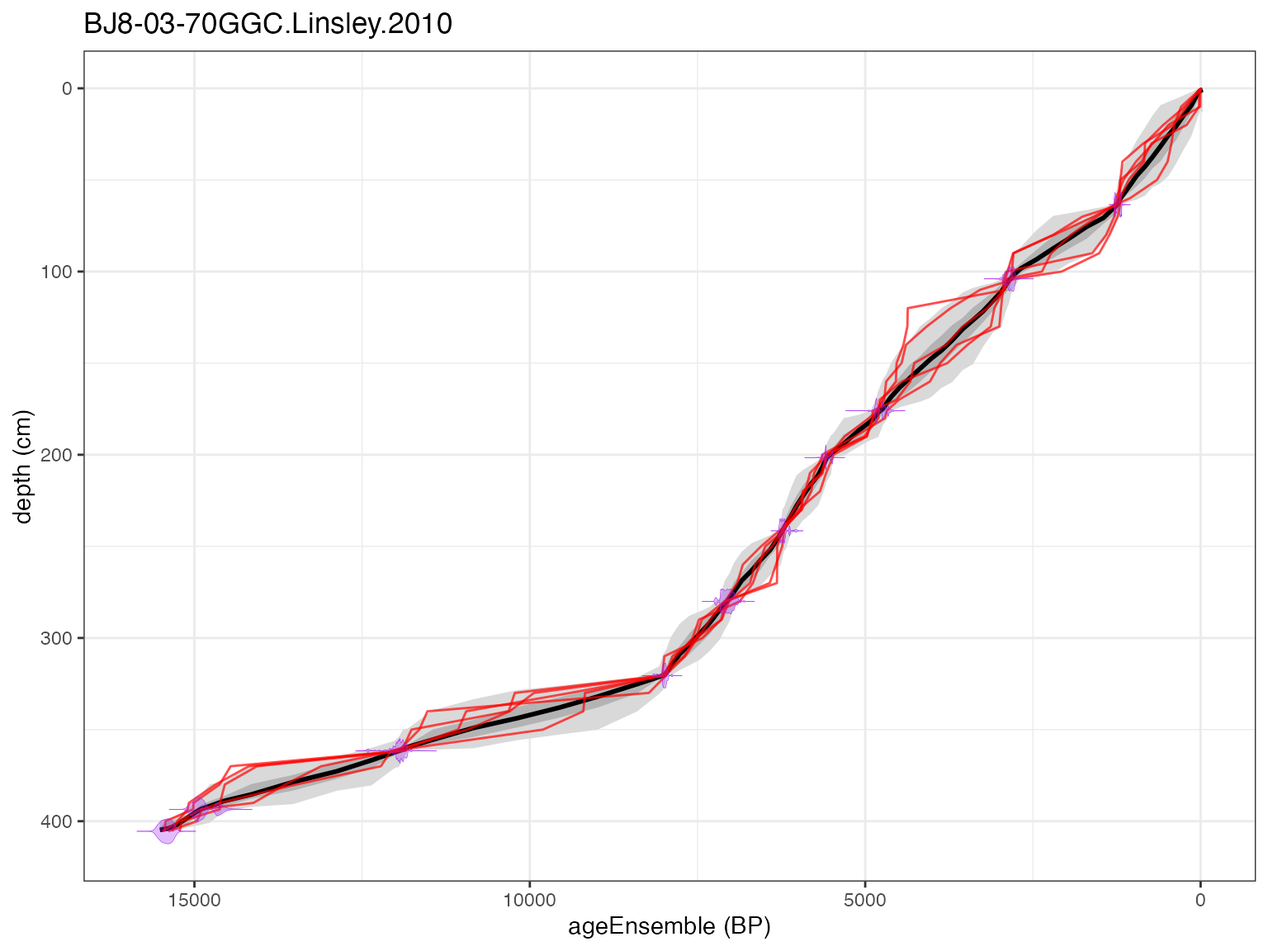
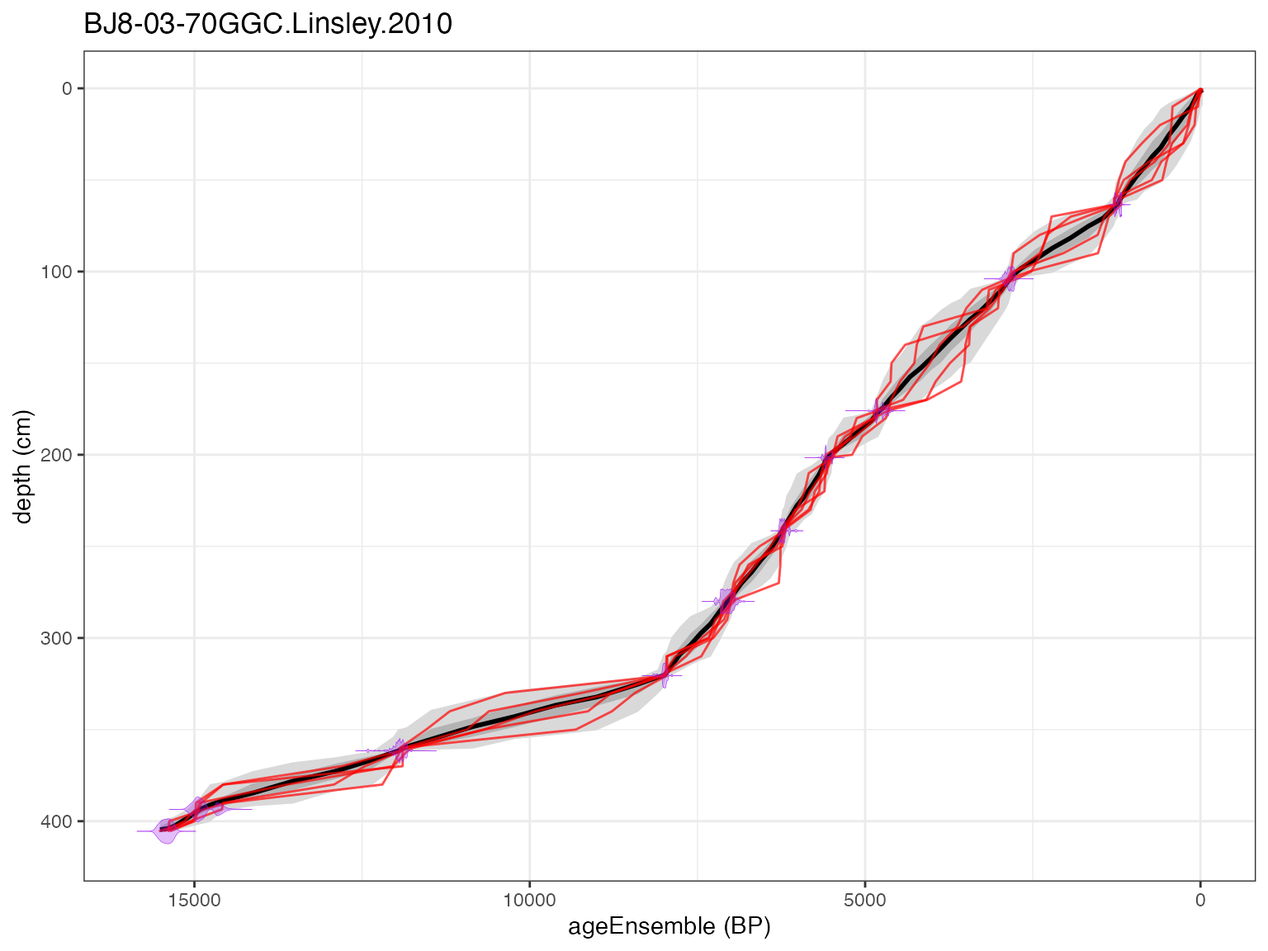
Deploying to gh-pages from @ nickmckay/GeoChronR@5e35a6a2241da9055941692a5543424f4d29bb61 🚀

Changed region(s): [[0.125, 0.4375, 0.6875, 0.875], [0.6875, 0.0938, 0.9688, 0.4375]]

diff --git a/articles/oxCal.html b/articles/oxCal.html
@@ -156,7 +156,7 @@ will tell you.</p>
 <p>OK, let’s get a LiPD file from the LinkedEarth Wiki:</p>
 <div class="sourceCode" id="cb3"><pre class="downlit sourceCode r">
 <code class="sourceCode R"><span><span class="va">L</span> <span class="op">&lt;-</span> <span class="fu"><a href="https://rdrr.io/pkg/lipdR/man/readLipd.html" class="external-link">readLipd</a></span><span class="op">(</span><span class="st">"https://lipdverse.org/geoChronR-examples/BJ8-03-70GGC.Linsley.2010.lpd"</span><span class="op">)</span></span>
-<span><span class="co">#&gt; [1] "Loading 1 datasets from /var/folders/py/lcjn3y352g1106vf1rqk521r0000gn/T//RtmpeJgYIs/BJ8-03-70GGC.Linsley.2010.lpd..."</span></span>
+<span><span class="co">#&gt; [1] "Loading 1 datasets from /var/folders/py/lcjn3y352g1106vf1rqk521r0000gn/T//RtmpIobB3D/BJ8-03-70GGC.Linsley.2010.lpd..."</span></span>
 <span><span class="co">#&gt; [1] "reading: BJ8-03-70GGC.Linsley.2010.lpd"</span></span></code></pre></div>
 <p>Now we can run it through oxcal. First, we specify our oxcal path,
 then use the <code>runOxcal</code> function. Like the other
@@ -235,7 +235,7 @@ multiple hours).</p>
 <span><span class="co"><span style="color: #00BB00; font-weight: bold;">#&gt;  Find later with getLastVarString()</span></span></span>
 <span><span class="co"><span style="color: #00BB00; font-weight: bold;">#&gt; </span><span style="color: #00BB00;">lab.id.var = 'id', age.14c.var = 'age14c', age.14c.uncertainty.var = 'age14cuncertainty', age.var = 'calendarage', age.uncertainty.var = 'calendarageuncertainty', depth.var = 'depth', reservoir.age.14c.var = NULL, reservoir.age.14c.uncertainty.var = NULL, rejected.ages.var = NULL, </span></span></span>
 <span><span class="co"><span style="color: #00BB00;">#&gt; </span><span style="color: #0000BB;">Oxcal is now running, depending on your settings and your computer, this may take a few minutes to several hours. The model is complete when a table of model diagnostics appears.</span></span></span>
-<span><span class="co"><span style="color: #0000BB;">#&gt; </span>[1] "OxCal v4.4.4 Bronk Ramsey (2021); r:5\nAtmospheric data from Reimer et al (2020)\n405.5\n400\n393.5\n390\n380\n370\n361.5\n360\n350\n340\n330\n320.5\n320\n310\n300\n290\n280\n270\n260\n250\n241.5\n240\n230\n220\n210\n201.5\n200\n190\n180\n176\n170\n160\n150\n140\n130\n120\n110\n104\n100\n90\n80\n70\n63.5\n60\n50\n40\n30\n20\n10\n0\nWarning! Duplicate names - Atmospheric\nWarning! Duplicate names - Atmospheric\nWarning! Duplicate names - Atmospheric\nBoundary()\nAtmospheric Curve(IntCal20.14c)\nAtmospheric data from Reimer et al (2020)\nOS-45436 R_Date(12900,45)\n  68.3% probability\n    13563BC (68.3%) 13372BC\n  95.4% probability\n    13644BC (95.4%) 13310BC\nD \nAtmospheric Curve(IntCal20.14c)\nAtmospheric data from Reimer et al (2020)\nOS-65581 R_Date(12550,50)\n  68.3% probability\n    13106BC (59.4%) 12886BC\n    12728BC ( 8.9%) 12677BC\n  95.4% probability\n    13180BC (71.0%) 12847BC\n    12774BC (24.5%) 12560BC\nD \nD \nD \nAtmospheric Curve(IntCal20.14c)\nAtmospheric data from Reimer et al (2020)\nOS-60748 R_Date(10250,40)\n  68.3% probability\n    10049BC (58.3%) 9922BC\n    9912BC ( 9.9%) 9884BC\n  95.4% probability\n    10480BC ( 2.0%) 10450BC\n    10217BC ( 0.4%) 10206BC\n    10192BC ( 0.6%) 10176BC\n    10154BC (91.3%) 9864BC\n    9832BC ( 1.0%) 9811BC\nD \nD \nD \nD \nAtmospheric Curve(IntCal20.14c)\nAtmospheric data from Reimer et al (2020)\nOS-60737 R_Date(7190,45)\n  68.3% probability\n    6076BC (68.3%) 6010BC\n  95.4% probability\n    6217BC (10.2%) 6139BC\n    6096BC (83.9%) 5982BC\n    5940BC ( 1.3%) 5928BC\nD \nD \nD \nD \nAtmospheric Curve(IntCal20.14c)\nAtmospheric data from Reimer et al (2020)\nOS-54154 R_Date(6160,60)\n  68.3% probability\n    5208BC (68.3%) 5040BC\n  95.4% probability\n    5298BC ( 4.5%) 5258BC\n    5221BC (91.0%) 4941BC\nD \nD \nD \nAtmospheric Curve(IntCal20.14c)\nAtmospheric data from Reimer et al (2020)\nOS-60750 R_Date(5410,35)\n  68.3% probability\n    4330BC (68.3%) 4249BC\n  95.4% probability\n    4346BC (85.2%) 4228BC\n    4196BC ( 7.7%) 4166BC\n    4094BC ( 2.5%) 4070BC\nD \nD \nD \nD \nAtmospheric Curve(IntCal20.14c)\nAtmospheric data from Reimer et al (2020)\nOS-60747 R_Date(4850,40)\n  68.3% probability\n    3700BC ( 8.2%) 3684BC\n    3655BC (37.1%) 3626BC\n    3562BC (23.0%) 3533BC\n  95.4% probability\n    3708BC (14.5%) 3670BC\n    3660BC (81.0%) 3527BC\nD \nD \nD \nAtmospheric Curve(IntCal20.14c)\nAtmospheric data from Reimer et al (2020)\nOS-54153 R_Date(4240,50)\n  68.3% probability\n    2910BC (35.2%) 2861BC\n    2805BC (26.1%) 2754BC\n    2720BC ( 7.0%) 2703BC\n  95.4% probability\n    3004BC ( 0.8%) 2992BC\n    2928BC (43.7%) 2831BC\n    2822BC (49.6%) 2662BC\n    2652BC ( 1.4%) 2632BC\nD \nD \nD \nD \nD \nD \nD \nAtmospheric Curve(IntCal20.14c)\nAtmospheric data from Reimer et al (2020)\nOS-54152 R_Date(2750,50)\n  68.3% probability\n    964BC ( 1.5%) 961BC\n    930BC (66.8%) 826BC\n  95.4% probability\n    1006BC (95.4%) 810BC\nD \nD \nD \nD \nAtmospheric Curve(IntCal20.14c)\nAtmospheric data from Reimer et al (2020)\nOS-45435 R_Date(1310,30)\n  68.3% probability\n    664AD (29.2%) 689AD\n    698AD ( 3.2%) 701AD\n    742AD (35.9%) 772AD\n  95.4% probability\n    656AD (95.4%) 774AD\nD \nD \nD \nD \nD \nD \nsurface C_Date(1950,25)\n  68.3% probability\n    1923AD (68.3%) 1976AD\n  95.4% probability\n    1900AD (95.4%) 2000AD\nBoundary()\nMCMC_Sample()\n( P_Sequence \nP_Sequence(0.1)\n) P_Sequence \nWarning! No outlier model specified - use Outlier_Model()\nWarning! No outlier model specified - use Outlier_Model()\nWarning! No outlier model specified - use Outlier_Model()\nWarning! No outlier model specified - use Outlier_Model()\nWarning! No outlier model specified - use Outlier_Model()\nWarning! No outlier model specified - use Outlier_Model()\nWarning! No outlier model specified - use Outlier_Model()\nWarning! No outlier model specified - use Outlier_Model()\nWarning! No outlier model specified - use Outlier_Model()\nWarning! No outlier model specified - use Outlier_Model()\nWarning! No outlier model specified - use Outlier_Model()\nPosterior \n( MCMC(30000)\nOverall agreement 101.1%\nDynamic agreement 101.3%\nPosterior \n  68.3% probability\n    13540BC (68.3%) 13351BC\n  95.4% probability\n    13640BC (95.4%) 13291BC\nOS-45436 Posterior \n  68.3% probability\n    13540BC (68.3%) 13351BC\n  95.4% probability\n    13640BC (95.4%) 13291BC\n Agreement  99.8%\nD Posterior \n  68.3% probability\n    13452BC (68.3%) 13040BC\n  95.4% probability\n    13592BC (92.6%) 12854BC\n    12807BC ( 2.9%) 12714BC\nOS-65581 Posterior \n  68.3% probability\n    13114BC (63.0%) 12886BC\n    12723BC ( 5.2%) 12690BC\n  95.4% probability\n    13186BC (73.4%) 12844BC\n    12776BC (22.0%) 12565BC\n Agreement 101.8%\nD Posterior \n  68.3% probability\n    13100BC (68.3%) 12496BC\n  95.4% probability\n    13186BC (95.4%) 11528BC\nD Posterior \n  68.3% probability\n    12633BC (68.3%) 11082BC\n  95.4% probability\n    12932BC (95.4%) 10356BC\nD Posterior \n  68.3% probability\n    11056BC (68.3%) 9951BC\n  95.4% probability\n    12096BC (95.4%) 9891BC\nOS-60748 Posterior \n  68.3% probability\n    10049BC (58.3%) 9921BC\n    9911BC (10.0%) 9883BC\n  95.4% probability\n    10480BC ( 1.5%) 10451BC\n    10218BC ( 0.6%) 10202BC\n    10196BC ( 0.9%) 10172BC\n    10155BC (91.1%) 9860BC\n    9836BC ( 1.4%) 9807BC\n Agreement 100.7%\nD Posterior \n  68.3% probability\n    10096BC (66.8%) 9848BC\n    9830BC ( 1.4%) 9816BC\n  95.4% probability\n    10486BC ( 1.5%) 10398BC\n    10379BC ( 0.4%) 10349BC\n    10314BC ( 0.4%) 10277BC\n    10244BC (93.1%) 9068BC\nD Posterior \n  68.3% probability\n    9952BC (67.8%) 8522BC\n    8512BC ( 0.3%) 8502BC\n    8498BC ( 0.1%) 8494BC\n  95.4% probability\n    10062BC (95.4%) 7254BC\nD Posterior \n  68.3% probability\n    8850BC (68.3%) 6907BC\n  95.4% probability\n    9558BC (95.4%) 6340BC\nD Posterior \n  68.3% probability\n    7256BC ( 0.3%) 7248BC\n    7238BC (68.0%) 6040BC\n  95.4% probability\n    8520BC (95.4%) 6005BC\nOS-60737 Posterior \n  68.3% probability\n    6080BC (68.3%) 6000BC\n  95.4% probability\n    6220BC (15.8%) 6127BC\n    6104BC (79.2%) 5982BC\n    5936BC ( 0.5%) 5931BC\n Agreement  96.9%\nD Posterior \n  68.3% probability\n    6084BC (68.3%) 5986BC\n  95.4% probability\n    6222BC (95.4%) 5907BC\nD Posterior \n  68.3% probability\n    6048BC (68.3%) 5690BC\n  95.4% probability\n    6146BC (95.4%) 5394BC\nD Posterior \n  68.3% probability\n    5814BC (68.3%) 5340BC\n  95.4% probability\n    5988BC (95.4%) 5166BC\nD Posterior \n  68.3% probability\n    5474BC (68.3%) 5100BC\n  95.4% probability\n    5757BC (95.4%) 5009BC\nOS-54154 Posterior \n  68.3% probability\n    5208BC (68.3%) 5041BC\n  95.4% probability\n    5298BC ( 4.4%) 5256BC\n    5223BC (91.1%) 4942BC\n Agreement 101.4%\nD Posterior \n  68.3% probability\n    5114BC (68.3%) 4760BC\n  95.4% probability\n    5200BC (95.4%) 4510BC\nD Posterior \n  68.3% probability\n    4870BC (68.3%) 4444BC\n  95.4% probability\n    5050BC (95.4%) 4314BC\nD Posterior \n  68.3% probability\n    4550BC (68.3%) 4264BC\n  95.4% probability\n    4830BC (95.4%) 4181BC\nOS-60750 Posterior \n  68.3% probability\n    4330BC (68.3%) 4250BC\n  95.4% probability\n    4350BC (86.3%) 4224BC\n    4199BC ( 7.2%) 4164BC\n    4094BC ( 2.0%) 4066BC\n Agreement 101.9%\nD Posterior \n  68.3% probability\n    4332BC (68.3%) 4233BC\n  95.4% probability\n    4346BC (95.4%) 4057BC\nD Posterior \n  68.3% probability\n    4268BC (68.3%) 3988BC\n  95.4% probability\n    4316BC (95.4%) 3793BC\nD Posterior \n  68.3% probability\n    4069BC (68.3%) 3736BC\n  95.4% probability\n    4216BC (95.4%) 3632BC\nD Posterior \n  68.3% probability\n    3824BC (68.3%) 3574BC\n  95.4% probability\n    4028BC (95.4%) 3538BC\nOS-60747 Posterior \n  68.3% probability\n    3696BC ( 2.8%) 3690BC\n    3654BC (33.1%) 3626BC\n    3576BC (32.3%) 3532BC\n  95.4% probability\n    3708BC (95.4%) 3524BC\n Agreement  98.0%\nD Posterior \n  68.3% probability\n    3696BC ( 3.4%) 3684BC\n    3655BC (31.2%) 3599BC\n    3586BC (33.7%) 3520BC\n  95.4% probability\n    3751BC ( 0.2%) 3742BC\n    3714BC (95.2%) 3271BC\nD Posterior \n  68.3% probability\n    3536BC (68.3%) 3067BC\n  95.4% probability\n    3636BC (95.4%) 2864BC\nD Posterior \n  68.3% probability\n    3038BC (68.3%) 2754BC\n  95.4% probability\n    3334BC (95.4%) 2672BC\nOS-54153 Posterior \n  68.3% probability\n    2912BC (39.7%) 2859BC\n    2805BC (24.4%) 2757BC\n    2717BC ( 4.2%) 2706BC\n  95.4% probability\n    3008BC ( 1.5%) 2986BC\n    2934BC (93.2%) 2664BC\n    2650BC ( 0.8%) 2635BC\n Agreement 102.7%\nD Posterior \n  68.3% probability\n    2898BC (68.3%) 2601BC\n  95.4% probability\n    2960BC (95.4%) 2202BC\nD Posterior \n  68.3% probability\n    2761BC (68.3%) 2216BC\n  95.4% probability\n    2876BC (95.4%) 1806BC\nD Posterior \n  68.3% probability\n    2528BC (68.3%) 1846BC\n  95.4% probability\n    2731BC (95.4%) 1476BC\nD Posterior \n  68.3% probability\n    2221BC (68.3%) 1500BC\n  95.4% probability\n    2518BC (95.4%) 1207BC\nD Posterior \n  68.3% probability\n    1866BC (68.3%) 1191BC\n  95.4% probability\n    2238BC (95.4%) 996BC\nD Posterior \n  68.3% probability\n    1484BC (68.3%) 955BC\n  95.4% probability\n    1906BC (95.4%) 866BC\nD Posterior \n  68.3% probability\n    1107BC (68.3%) 838BC\n  95.4% probability\n    1492BC (95.4%) 810BC\nOS-54152 Posterior \n  68.3% probability\n    930BC (68.3%) 820BC\n  95.4% probability\n    1010BC (95.4%) 805BC\n Agreement 101.8%\nD Posterior \n  68.3% probability\n    971BC (68.3%) 686BC\n  95.4% probability\n    1022BC (95.4%) 206BC\nD Posterior \n  68.3% probability\n    814BC (68.3%) 116BC\n  95.4% probability\n    906BC (95.4%) 345AD\nD Posterior \n  68.3% probability\n    234BC (68.3%) 526AD\n  95.4% probability\n    614BC (95.4%) 672AD\nD Posterior \n  68.3% probability\n    386AD (68.3%) 760AD\n  95.4% probability\n    140BC (95.4%) 773AD\nOS-45435 Posterior \n  68.3% probability\n    662AD (39.8%) 700AD\n    742AD (28.5%) 770AD\n  95.4% probability\n    653AD (95.4%) 774AD\n Agreement  98.6%\nD Posterior \n  68.3% probability\n    664AD (68.3%) 798AD\n  95.4% probability\n    650AD (95.4%) 1058AD\nD Posterior \n  68.3% probability\n    735AD (68.3%) 1082AD\n  95.4% probability\n    676AD (95.4%) 1370AD\nD Posterior \n  68.3% probability\n    894AD (68.3%) 1357AD\n  95.4% probability\n    770AD (95.4%) 1608AD\nD Posterior \n  68.3% probability\n    1131AD (68.3%) 1622AD\n  95.4% probability\n    927AD (95.4%) 1802AD\nD Posterior \n  68.3% probability\n    1410AD (68.3%) 1842AD\n  95.4% probability\n    1136AD (95.4%) 1928AD\nD Posterior \n  68.3% probability\n    1688AD (68.3%) 1958AD\n  95.4% probability\n    1386AD (95.4%) 1988AD\nsurface Posterior \n  68.3% probability\n    1924AD (68.3%) 1978AD\n  95.4% probability\n    1893AD (95.4%) 2009AD\n Agreement 100.4%\nPosterior \n  68.3% probability\n    1924AD (68.3%) 1978AD\n  95.4% probability\n    1893AD (95.4%) 2009AD\n) MCMC(5952000)\n"</span></span>
+<span><span class="co"><span style="color: #0000BB;">#&gt; </span>[1] "OxCal v4.4.4 Bronk Ramsey (2021); r:5\nAtmospheric data from Reimer et al (2020)\n405.5\n400\n393.5\n390\n380\n370\n361.5\n360\n350\n340\n330\n320.5\n320\n310\n300\n290\n280\n270\n260\n250\n241.5\n240\n230\n220\n210\n201.5\n200\n190\n180\n176\n170\n160\n150\n140\n130\n120\n110\n104\n100\n90\n80\n70\n63.5\n60\n50\n40\n30\n20\n10\n0\nWarning! Duplicate names - Atmospheric\nWarning! Duplicate names - Atmospheric\nWarning! Duplicate names - Atmospheric\nBoundary()\nAtmospheric Curve(IntCal20.14c)\nAtmospheric data from Reimer et al (2020)\nOS-45436 R_Date(12900,45)\n  68.3% probability\n    13563BC (68.3%) 13372BC\n  95.4% probability\n    13644BC (95.4%) 13310BC\nD \nAtmospheric Curve(IntCal20.14c)\nAtmospheric data from Reimer et al (2020)\nOS-65581 R_Date(12550,50)\n  68.3% probability\n    13106BC (59.4%) 12886BC\n    12728BC ( 8.9%) 12677BC\n  95.4% probability\n    13180BC (71.0%) 12847BC\n    12774BC (24.5%) 12560BC\nD \nD \nD \nAtmospheric Curve(IntCal20.14c)\nAtmospheric data from Reimer et al (2020)\nOS-60748 R_Date(10250,40)\n  68.3% probability\n    10049BC (58.3%) 9922BC\n    9912BC ( 9.9%) 9884BC\n  95.4% probability\n    10480BC ( 2.0%) 10450BC\n    10217BC ( 0.4%) 10206BC\n    10192BC ( 0.6%) 10176BC\n    10154BC (91.3%) 9864BC\n    9832BC ( 1.0%) 9811BC\nD \nD \nD \nD \nAtmospheric Curve(IntCal20.14c)\nAtmospheric data from Reimer et al (2020)\nOS-60737 R_Date(7190,45)\n  68.3% probability\n    6076BC (68.3%) 6010BC\n  95.4% probability\n    6217BC (10.2%) 6139BC\n    6096BC (83.9%) 5982BC\n    5940BC ( 1.3%) 5928BC\nD \nD \nD \nD \nAtmospheric Curve(IntCal20.14c)\nAtmospheric data from Reimer et al (2020)\nOS-54154 R_Date(6160,60)\n  68.3% probability\n    5208BC (68.3%) 5040BC\n  95.4% probability\n    5298BC ( 4.5%) 5258BC\n    5221BC (91.0%) 4941BC\nD \nD \nD \nAtmospheric Curve(IntCal20.14c)\nAtmospheric data from Reimer et al (2020)\nOS-60750 R_Date(5410,35)\n  68.3% probability\n    4330BC (68.3%) 4249BC\n  95.4% probability\n    4346BC (85.2%) 4228BC\n    4196BC ( 7.7%) 4166BC\n    4094BC ( 2.5%) 4070BC\nD \nD \nD \nD \nAtmospheric Curve(IntCal20.14c)\nAtmospheric data from Reimer et al (2020)\nOS-60747 R_Date(4850,40)\n  68.3% probability\n    3700BC ( 8.2%) 3684BC\n    3655BC (37.1%) 3626BC\n    3562BC (23.0%) 3533BC\n  95.4% probability\n    3708BC (14.5%) 3670BC\n    3660BC (81.0%) 3527BC\nD \nD \nD \nAtmospheric Curve(IntCal20.14c)\nAtmospheric data from Reimer et al (2020)\nOS-54153 R_Date(4240,50)\n  68.3% probability\n    2910BC (35.2%) 2861BC\n    2805BC (26.1%) 2754BC\n    2720BC ( 7.0%) 2703BC\n  95.4% probability\n    3004BC ( 0.8%) 2992BC\n    2928BC (43.7%) 2831BC\n    2822BC (49.6%) 2662BC\n    2652BC ( 1.4%) 2632BC\nD \nD \nD \nD \nD \nD \nD \nAtmospheric Curve(IntCal20.14c)\nAtmospheric data from Reimer et al (2020)\nOS-54152 R_Date(2750,50)\n  68.3% probability\n    964BC ( 1.5%) 961BC\n    930BC (66.8%) 826BC\n  95.4% probability\n    1006BC (95.4%) 810BC\nD \nD \nD \nD \nAtmospheric Curve(IntCal20.14c)\nAtmospheric data from Reimer et al (2020)\nOS-45435 R_Date(1310,30)\n  68.3% probability\n    664AD (29.2%) 689AD\n    698AD ( 3.2%) 701AD\n    742AD (35.9%) 772AD\n  95.4% probability\n    656AD (95.4%) 774AD\nD \nD \nD \nD \nD \nD \nsurface C_Date(1950,25)\n  68.3% probability\n    1923AD (68.3%) 1976AD\n  95.4% probability\n    1900AD (95.4%) 2000AD\nBoundary()\nMCMC_Sample()\n( P_Sequence \nP_Sequence(0.1)\n) P_Sequence \nWarning! No outlier model specified - use Outlier_Model()\nWarning! No outlier model specified - use Outlier_Model()\nWarning! No outlier model specified - use Outlier_Model()\nWarning! No outlier model specified - use Outlier_Model()\nWarning! No outlier model specified - use Outlier_Model()\nWarning! No outlier model specified - use Outlier_Model()\nWarning! No outlier model specified - use Outlier_Model()\nWarning! No outlier model specified - use Outlier_Model()\nWarning! No outlier model specified - use Outlier_Model()\nWarning! No outlier model specified - use Outlier_Model()\nWarning! No outlier model specified - use Outlier_Model()\nPosterior \n( MCMC(30000)\nOverall agreement 101.8%\nDynamic agreement 102.0%\nPosterior \n  68.3% probability\n    13539BC (68.3%) 13351BC\n  95.4% probability\n    13640BC (95.4%) 13294BC\nOS-45436 Posterior \n  68.3% probability\n    13539BC (68.3%) 13351BC\n  95.4% probability\n    13640BC (95.4%) 13294BC\n Agreement 100.0%\nD Posterior \n  68.3% probability\n    13454BC (68.3%) 13040BC\n  95.4% probability\n    13586BC (92.5%) 12846BC\n    12812BC ( 2.9%) 12716BC\nOS-65581 Posterior \n  68.3% probability\n    13116BC (62.9%) 12886BC\n    12723BC ( 5.4%) 12690BC\n  95.4% probability\n    13186BC (73.4%) 12844BC\n    12775BC (22.1%) 12567BC\n Agreement 102.0%\nD Posterior \n  68.3% probability\n    13102BC (68.3%) 12502BC\n  95.4% probability\n    13192BC (95.4%) 11540BC\nD Posterior \n  68.3% probability\n    12633BC (67.9%) 11097BC\n    11086BC ( 0.4%) 11075BC\n  95.4% probability\n    12936BC (95.4%) 10362BC\nD Posterior \n  68.3% probability\n    11067BC ( 0.1%) 11064BC\n    11057BC (68.2%) 9954BC\n  95.4% probability\n    12096BC (95.4%) 9892BC\nOS-60748 Posterior \n  68.3% probability\n    10048BC (58.7%) 9921BC\n    9912BC ( 9.5%) 9884BC\n  95.4% probability\n    10483BC ( 2.6%) 10448BC\n    10218BC ( 1.7%) 10171BC\n    10155BC (89.7%) 9860BC\n    9835BC ( 1.4%) 9807BC\n Agreement  99.7%\nD Posterior \n  68.3% probability\n    10093BC (68.3%) 9807BC\n  95.4% probability\n    10500BC ( 2.7%) 10392BC\n    10378BC ( 0.4%) 10344BC\n    10320BC ( 0.5%) 10275BC\n    10244BC (91.8%) 9024BC\nD Posterior \n  68.3% probability\n    9949BC (67.4%) 8510BC\n    8504BC ( 0.6%) 8484BC\n    8478BC ( 0.3%) 8469BC\n  95.4% probability\n    10068BC (95.4%) 7222BC\nD Posterior \n  68.3% probability\n    8854BC ( 0.2%) 8845BC\n    8824BC (67.7%) 6927BC\n    6912BC ( 0.2%) 6904BC\n    6889BC ( 0.1%) 6885BC\n  95.4% probability\n    9551BC (95.4%) 6343BC\nD Posterior \n  68.3% probability\n    7232BC (68.3%) 6039BC\n  95.4% probability\n    8504BC (95.4%) 6005BC\nOS-60737 Posterior \n  68.3% probability\n    6080BC (68.3%) 6000BC\n  95.4% probability\n    6219BC (15.1%) 6126BC\n    6101BC (79.8%) 5982BC\n    5937BC ( 0.5%) 5931BC\n Agreement  97.8%\nD Posterior \n  68.3% probability\n    6082BC (68.3%) 5988BC\n  95.4% probability\n    6220BC (95.4%) 5908BC\nD Posterior \n  68.3% probability\n    6046BC (68.3%) 5689BC\n  95.4% probability\n    6144BC (95.4%) 5391BC\nD Posterior \n  68.3% probability\n    5815BC (68.3%) 5342BC\n  95.4% probability\n    5988BC (95.4%) 5167BC\nD Posterior \n  68.3% probability\n    5476BC (68.3%) 5101BC\n  95.4% probability\n    5756BC (95.4%) 5010BC\nOS-54154 Posterior \n  68.3% probability\n    5208BC (68.3%) 5041BC\n  95.4% probability\n    5298BC ( 4.4%) 5256BC\n    5223BC (91.1%) 4942BC\n Agreement 101.3%\nD Posterior \n  68.3% probability\n    5113BC (68.3%) 4760BC\n  95.4% probability\n    5200BC (95.4%) 4512BC\nD Posterior \n  68.3% probability\n    4871BC (68.3%) 4446BC\n  95.4% probability\n    5048BC (95.4%) 4316BC\nD Posterior \n  68.3% probability\n    4548BC (68.3%) 4264BC\n  95.4% probability\n    4828BC (95.4%) 4182BC\nOS-60750 Posterior \n  68.3% probability\n    4330BC (68.3%) 4250BC\n  95.4% probability\n    4348BC (87.5%) 4226BC\n    4198BC ( 6.9%) 4166BC\n    4091BC ( 1.1%) 4076BC\n Agreement 103.4%\nD Posterior \n  68.3% probability\n    4332BC (68.3%) 4235BC\n  95.4% probability\n    4344BC (95.4%) 4064BC\nD Posterior \n  68.3% probability\n    4269BC (68.3%) 3990BC\n  95.4% probability\n    4316BC (95.4%) 3796BC\nD Posterior \n  68.3% probability\n    4071BC (68.3%) 3740BC\n  95.4% probability\n    4215BC (95.4%) 3634BC\nD Posterior \n  68.3% probability\n    3830BC (68.3%) 3578BC\n  95.4% probability\n    4025BC (95.4%) 3538BC\nOS-60747 Posterior \n  68.3% probability\n    3695BC ( 2.0%) 3690BC\n    3654BC (35.0%) 3626BC\n    3576BC (31.2%) 3532BC\n  95.4% probability\n    3708BC (11.8%) 3669BC\n    3662BC (83.7%) 3526BC\n Agreement  98.9%\nD Posterior \n  68.3% probability\n    3696BC ( 3.4%) 3684BC\n    3655BC (32.2%) 3598BC\n    3586BC (32.7%) 3520BC\n  95.4% probability\n    3715BC (95.4%) 3266BC\nD Posterior \n  68.3% probability\n    3536BC (68.3%) 3068BC\n  95.4% probability\n    3636BC (95.4%) 2864BC\nD Posterior \n  68.3% probability\n    3035BC (67.7%) 2754BC\n    2720BC ( 0.5%) 2716BC\n  95.4% probability\n    3332BC (95.4%) 2670BC\nOS-54153 Posterior \n  68.3% probability\n    2912BC (39.3%) 2858BC\n    2806BC (24.8%) 2756BC\n    2718BC ( 4.2%) 2706BC\n  95.4% probability\n    3008BC ( 1.5%) 2985BC\n    2934BC (93.0%) 2662BC\n    2650BC ( 1.0%) 2634BC\n Agreement 102.3%\nD Posterior \n  68.3% probability\n    2898BC (68.3%) 2599BC\n  95.4% probability\n    2955BC (95.4%) 2192BC\nD Posterior \n  68.3% probability\n    2761BC (68.3%) 2215BC\n  95.4% probability\n    2876BC (95.4%) 1800BC\nD Posterior \n  68.3% probability\n    2529BC (68.3%) 1846BC\n  95.4% probability\n    2730BC (95.4%) 1474BC\nD Posterior \n  68.3% probability\n    2218BC (68.3%) 1494BC\n  95.4% probability\n    2516BC (95.4%) 1204BC\nD Posterior \n  68.3% probability\n    1868BC (68.3%) 1190BC\n  95.4% probability\n    2240BC (95.4%) 996BC\nD Posterior \n  68.3% probability\n    1484BC (68.3%) 954BC\n  95.4% probability\n    1908BC (95.4%) 866BC\nD Posterior \n  68.3% probability\n    1108BC (68.3%) 838BC\n  95.4% probability\n    1494BC (95.4%) 808BC\nOS-54152 Posterior \n  68.3% probability\n    930BC (68.3%) 820BC\n  95.4% probability\n    1010BC (95.4%) 805BC\n Agreement 101.8%\nD Posterior \n  68.3% probability\n    971BC (68.3%) 690BC\n  95.4% probability\n    1020BC (95.4%) 202BC\nD Posterior \n  68.3% probability\n    812BC (68.3%) 114BC\n  95.4% probability\n    906BC (95.4%) 334AD\n    342AD ( 0.1%) 346AD\nD Posterior \n  68.3% probability\n    236BC ( 0.3%) 232BC\n    226BC (68.0%) 527AD\n  95.4% probability\n    618BC (95.4%) 670AD\nD Posterior \n  68.3% probability\n    380AD (68.3%) 760AD\n  95.4% probability\n    140BC (95.4%) 773AD\nOS-45435 Posterior \n  68.3% probability\n    662AD (40.7%) 700AD\n    742AD (27.6%) 770AD\n  95.4% probability\n    652AD (95.4%) 775AD\n Agreement  98.5%\nD Posterior \n  68.3% probability\n    664AD (68.3%) 798AD\n  95.4% probability\n    650AD (95.4%) 1061AD\nD Posterior \n  68.3% probability\n    735AD (68.3%) 1082AD\n  95.4% probability\n    678AD (95.4%) 1369AD\nD Posterior \n  68.3% probability\n    894AD (68.3%) 1358AD\n  95.4% probability\n    768AD (95.4%) 1608AD\nD Posterior \n  68.3% probability\n    1128AD (68.3%) 1618AD\n  95.4% probability\n    924AD (95.4%) 1800AD\nD Posterior \n  68.3% probability\n    1406AD (68.3%) 1841AD\n  95.4% probability\n    1136AD (95.4%) 1928AD\nD Posterior \n  68.3% probability\n    1688AD (68.3%) 1958AD\n  95.4% probability\n    1386AD (95.4%) 1988AD\nsurface Posterior \n  68.3% probability\n    1924AD (68.3%) 1978AD\n  95.4% probability\n    1893AD (95.4%) 2008AD\n Agreement 100.6%\nPosterior \n  68.3% probability\n    1924AD (68.3%) 1978AD\n  95.4% probability\n    1893AD (95.4%) 2008AD\n) MCMC(1920000)\n"</span></span>
 <span><span class="co">#&gt; <span style="color: #BB0000; font-weight: bold;">It looks like youre MCMC_Sample parameters aren't large enough.</span></span></span></code></pre></div>
 <p>Great. After OxCal finishes running successfully, it will return this
 table showing some diagnostics of the MCMC statistics for the dated

diff --git a/articles/Introduction.html b/articles/Introduction.html
@@ -167,7 +167,7 @@ directory), or enter the path to file or the directory that you want:
 <code>L &lt;- readLipd("~/Downloads/my.lpd")</code></p>
 <div class="sourceCode" id="cb2"><pre class="downlit sourceCode r">
 <code class="sourceCode R"><span>  <span class="va">hulu</span> <span class="op">&lt;-</span> <span class="fu">lipdR</span><span class="fu">::</span><span class="fu"><a href="https://rdrr.io/pkg/lipdR/man/readLipd.html" class="external-link">readLipd</a></span><span class="op">(</span><span class="st">"http://lipdverse.org/geoChronR-examples/Hulucave.Wang.2001.lpd"</span><span class="op">)</span></span></code></pre></div>
-<pre><code><span><span class="co">## [1] "Loading 1 datasets from /var/folders/py/lcjn3y352g1106vf1rqk521r0000gn/T//Rtmp4VqMWZ/Hulucave.Wang.2001.lpd..."</span></span>
+<pre><code><span><span class="co">## [1] "Loading 1 datasets from /var/folders/py/lcjn3y352g1106vf1rqk521r0000gn/T//RtmpjVSllt/Hulucave.Wang.2001.lpd..."</span></span>
 <span><span class="co">## [1] "reading: Hulucave.Wang.2001.lpd"</span></span></code></pre>
 <p>Data from five stalagmites are stored in this file. Age model output,
 including ensemble data, can be stored in LiPD files, but we don’t have
@@ -275,7 +275,7 @@ members.</p>
 <p>Let’s compare these data to the GISP2 ice core.</p>
 <div class="sourceCode" id="cb14"><pre class="downlit sourceCode r">
 <code class="sourceCode R"><span>  <span class="va">gisp2</span> <span class="op">&lt;-</span> <span class="fu">lipdR</span><span class="fu">::</span><span class="fu"><a href="https://rdrr.io/pkg/lipdR/man/readLipd.html" class="external-link">readLipd</a></span><span class="op">(</span><span class="st">"http://lipdverse.org/geoChronR-examples/GISP2.Alley.2000.lpd"</span><span class="op">)</span></span></code></pre></div>
-<pre><code><span><span class="co">## [1] "Loading 1 datasets from /var/folders/py/lcjn3y352g1106vf1rqk521r0000gn/T//Rtmp4VqMWZ/GISP2.Alley.2000.lpd..."</span></span>
+<pre><code><span><span class="co">## [1] "Loading 1 datasets from /var/folders/py/lcjn3y352g1106vf1rqk521r0000gn/T//RtmpjVSllt/GISP2.Alley.2000.lpd..."</span></span>
 <span><span class="co">## [1] "reading: GISP2.Alley.2000.lpd"</span></span></code></pre>
 </div>
 <div class="section level3">

diff --git a/articles/PCA.html b/articles/PCA.html
@@ -158,7 +158,7 @@ analysis. Data are from the <a href="https://www.nature.com/articles/sdata201426
 compilation, which we load here:</p>
 <div class="sourceCode" id="cb2"><pre class="downlit sourceCode r">
 <code class="sourceCode R"><span>  <span class="va">FD</span> <span class="op">&lt;-</span> <span class="fu">lipdR</span><span class="fu">::</span><span class="fu"><a href="https://rdrr.io/pkg/lipdR/man/readLipd.html" class="external-link">readLipd</a></span><span class="op">(</span><span class="st">"http://lipdverse.org/geoChronR-examples/arc2k/Arctic2k.zip"</span><span class="op">)</span> </span></code></pre></div>
-<pre><code><span><span class="co">## [1] "Loading 19 datasets from /var/folders/py/lcjn3y352g1106vf1rqk521r0000gn/T//RtmpZ51P7R/lpdDownload..."</span></span>
+<pre><code><span><span class="co">## [1] "Loading 19 datasets from /var/folders/py/lcjn3y352g1106vf1rqk521r0000gn/T//Rtmpse3tjM/lpdDownload..."</span></span>
 <span><span class="co">## [1] "reading: Arc-Agassiz.Vinther.2008.lpd"</span></span>
 <span><span class="co">## [1] "reading: Arc-Austfonna.Isaksson.2005.lpd"</span></span>
 <span><span class="co">## [1] "reading: Arc-CampCentury.Fisher.1969.lpd"</span></span>

diff --git a/articles/regression.html b/articles/regression.html
@@ -164,7 +164,7 @@ example file from the package directory. You’d like just enter the path
 as a string for typical use.</p>
 <div class="sourceCode" id="cb2"><pre class="downlit sourceCode r">
 <code class="sourceCode R"><span><span class="va">K</span> <span class="op">&lt;-</span> <span class="fu">lipdR</span><span class="fu">::</span><span class="fu"><a href="https://rdrr.io/pkg/lipdR/man/readLipd.html" class="external-link">readLipd</a></span><span class="op">(</span><span class="st">"http://lipdverse.org/geoChronR-examples/Kurupa.Boldt.2015.lpd"</span><span class="op">)</span></span></code></pre></div>
-<pre><code><span><span class="co">## [1] "Loading 1 datasets from /var/folders/py/lcjn3y352g1106vf1rqk521r0000gn/T//Rtmp5NB6UJ/Kurupa.Boldt.2015.lpd..."</span></span>
+<pre><code><span><span class="co">## [1] "Loading 1 datasets from /var/folders/py/lcjn3y352g1106vf1rqk521r0000gn/T//RtmpDZnqeA/Kurupa.Boldt.2015.lpd..."</span></span>
 <span><span class="co">## [1] "reading: Kurupa.Boldt.2015.lpd"</span></span></code></pre>
 </div>
 <div class="section level3">

diff --git a/articles/AddEnsemble.html b/articles/AddEnsemble.html
@@ -168,7 +168,7 @@ would like to add it to the LiPD object.</p>
 object:</p>
 <div class="sourceCode" id="cb7"><pre class="downlit sourceCode r">
 <code class="sourceCode R"><span><span class="va">K</span> <span class="op">&lt;-</span> <span class="fu"><a href="https://rdrr.io/pkg/lipdR/man/readLipd.html" class="external-link">readLipd</a></span><span class="op">(</span><span class="st">"http://lipdverse.org/geoChronR-examples/Kurupa.Boldt.2015.lpd"</span><span class="op">)</span></span></code></pre></div>
-<pre><code><span><span class="co">## [1] "Loading 1 datasets from /var/folders/py/lcjn3y352g1106vf1rqk521r0000gn/T//RtmplV9yaA/Kurupa.Boldt.2015.lpd..."</span></span>
+<pre><code><span><span class="co">## [1] "Loading 1 datasets from /var/folders/py/lcjn3y352g1106vf1rqk521r0000gn/T//Rtmp28g1Gp/Kurupa.Boldt.2015.lpd..."</span></span>
 <span><span class="co">## [1] "reading: Kurupa.Boldt.2015.lpd"</span></span></code></pre>
 <p>And now let’s open a csv file that has the depth and age ensemble
 data</p>
